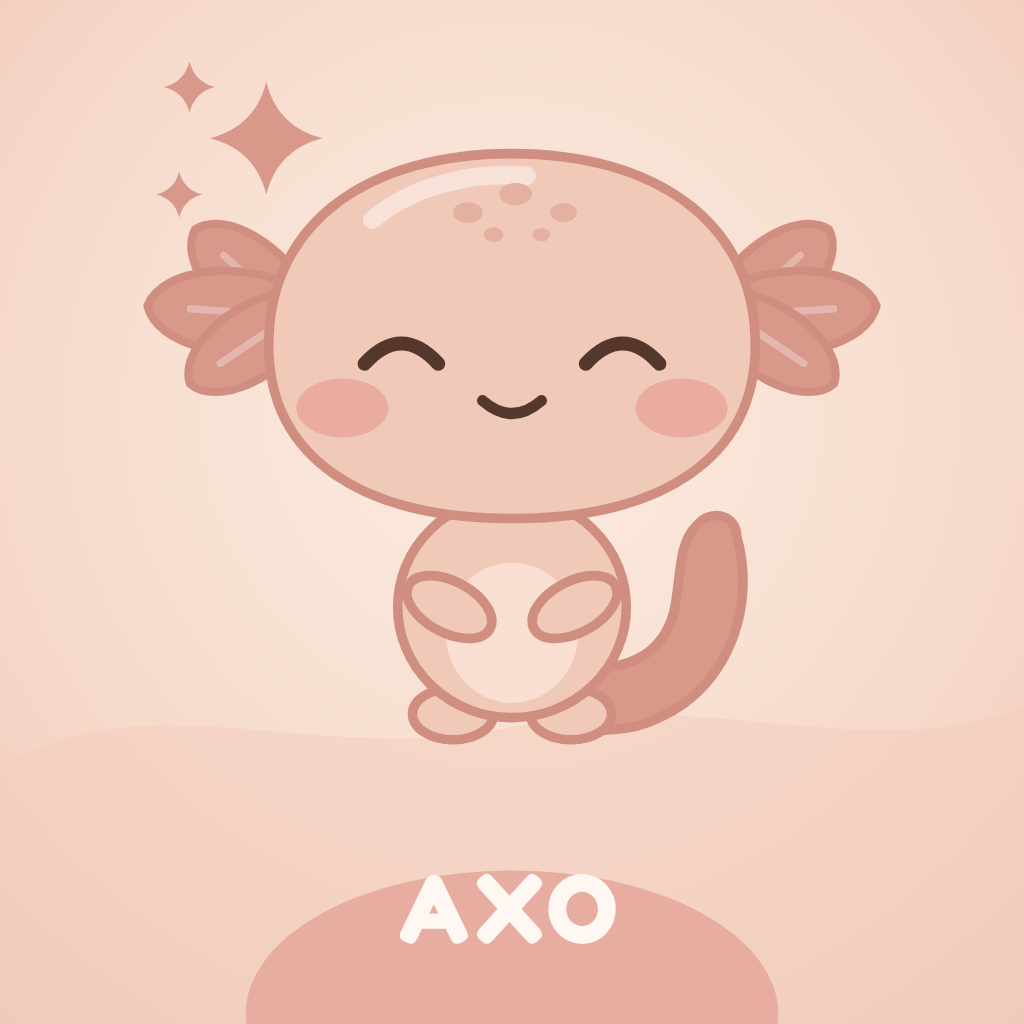
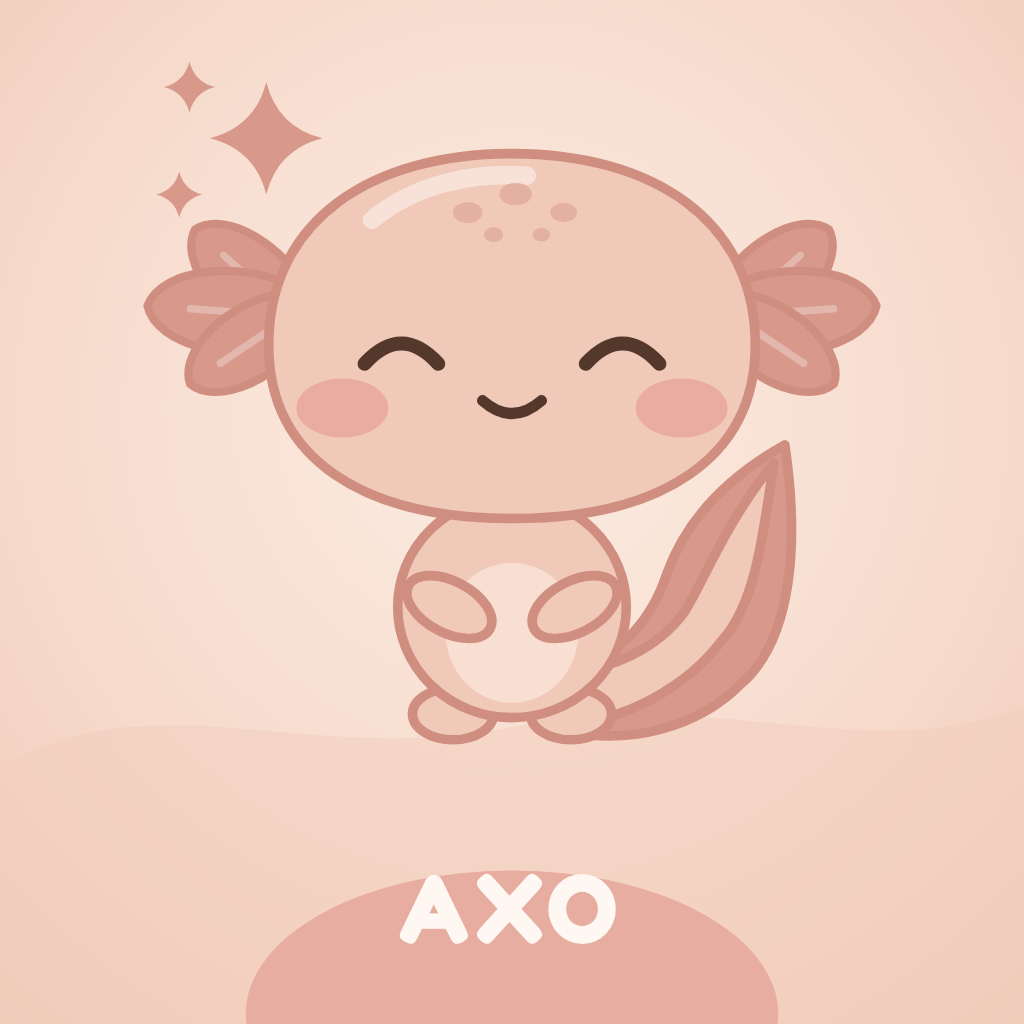
Axo: colita nueva en forma de aleta con punta
La colita anterior, redondeada, se veía mal. Ahora es plana como la de un
ajolote: membrana del color de las branquias, centro del color del cuerpo
que se afina, curvada hacia arriba y terminada en punta. Se actualiza
también en el ícono y en la pantalla de carga.

Claude-Session: https://claude.ai/code/session_01PFf2A78urzusfm27fjyJWB

Changed region(s): [[0.5625, 0.4375, 0.7812, 0.75]]

diff --git a/src/components/axoParts.js b/src/components/axoParts.js
@@ -76,8 +76,10 @@ const ETAPAS = {
   adulto: { s: 0.84, dy: -21, pera: true, top: 110, bottom: 199, brx: 41, sw: 17, gk: 1.42, tail: 1.42, feetY: 198, arm: 15, armX: 32, armY: 146, hojas4: true },
 };
 
-const TAIL = 'M116 178 C 130 182 141 176 144 164 C 146 154 145 146 150 141 C 154 136 161 138 161 144 C 166 161 160 184 140 193 C 132 197 122 197 114 195 Z';
-const ALETA = 'M160 142 C 176 158 173 184 148 193 C 161 183 166 161 160 142 Z';
+// Colita de ajolote: plana como aleta, se curva hacia arriba y termina en punta.
+// ALETA es la membrana (color de las branquias) y TAIL el centro (color del cuerpo), que se va afinando.
+const ALETA = 'M118 178 C 130 176 138 166 142 154 C 147 140 158 128 174 119 C 178 146 176 172 162 184 C 150 196 132 200 116 197 Z';
+const TAIL = 'M114 180 C 126 181 140 174 147 164 C 152 156 158 140 171 124 C 168 144 166 162 157 172 C 148 184 130 195 114 194 Z';
 const HEAD = 'M34 92 C34 58 62 40 100 40 C138 40 166 58 166 92 C166 123 140 139 100 139 C60 139 34 123 34 92 Z';
 
 // Toda la geometría que depende del color, la etapa y qué tan llenito está (chub 0..1; 1 = como al inicio)
@@ -264,9 +266,9 @@ export function Cuerpo({ g, outfit }) {
   return (
     <G>
       <G transform={g.tailT}>
-        {E.hojas4 && <Path d={ALETA} fill={g.gill} stroke={g.line} strokeWidth={2} strokeLinejoin="round" />}
-        <Path d={TAIL} fill={g.body} stroke={g.line} strokeWidth={SW / E.tail} strokeLinejoin="round" />
-        <Path d="M157 150 C 160 164 154 178 141 186" stroke="#ffffff" strokeWidth={3} fill="none" strokeLinecap="round" opacity={0.4} />
+        <Path d={ALETA} fill={g.gill} stroke={g.line} strokeWidth={SW / E.tail} strokeLinejoin="round" />
+        <Path d={TAIL} fill={g.body} stroke={g.line} strokeWidth={2.2 / E.tail} strokeLinejoin="round" />
+        <Path d="M124 187 C 138 186 149 176 155 161" stroke="#ffffff" strokeWidth={2.6} fill="none" strokeLinecap="round" opacity={0.4} />
       </G>
       {!E.pera && pies}
       <Path d={g.bodyD} fill={g.body} stroke={g.line} strokeWidth={SW} strokeLinejoin="round" />
